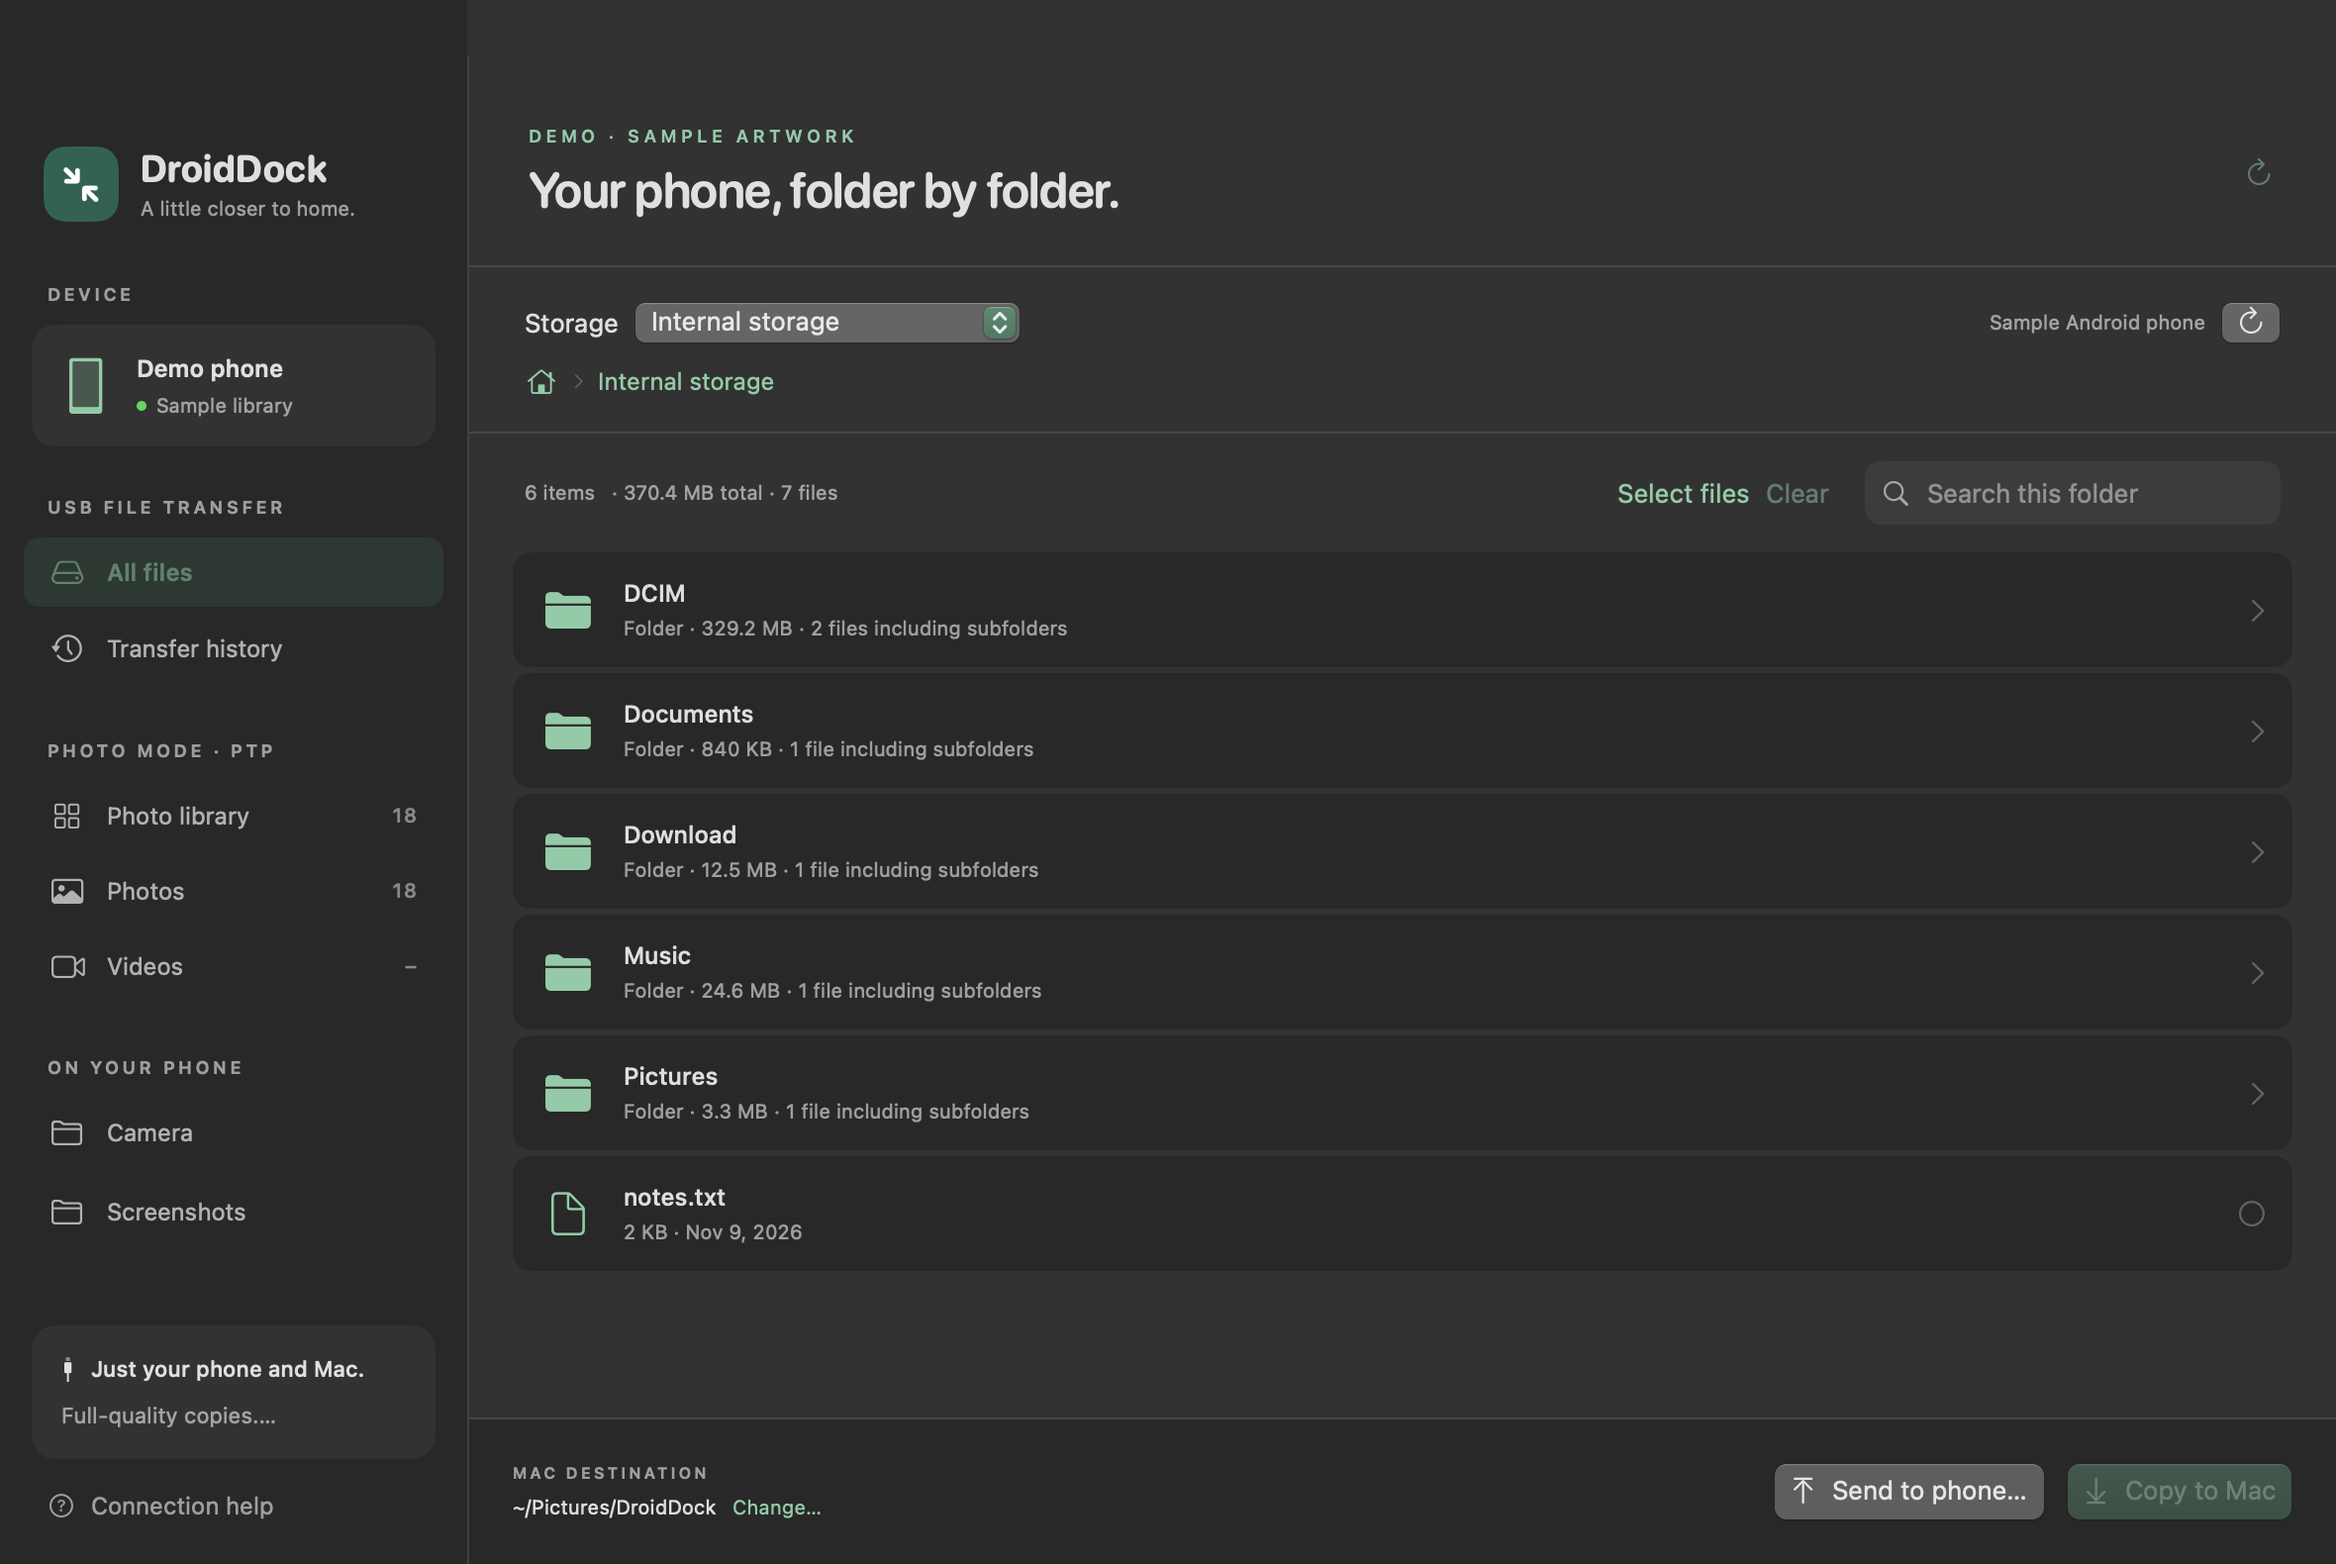
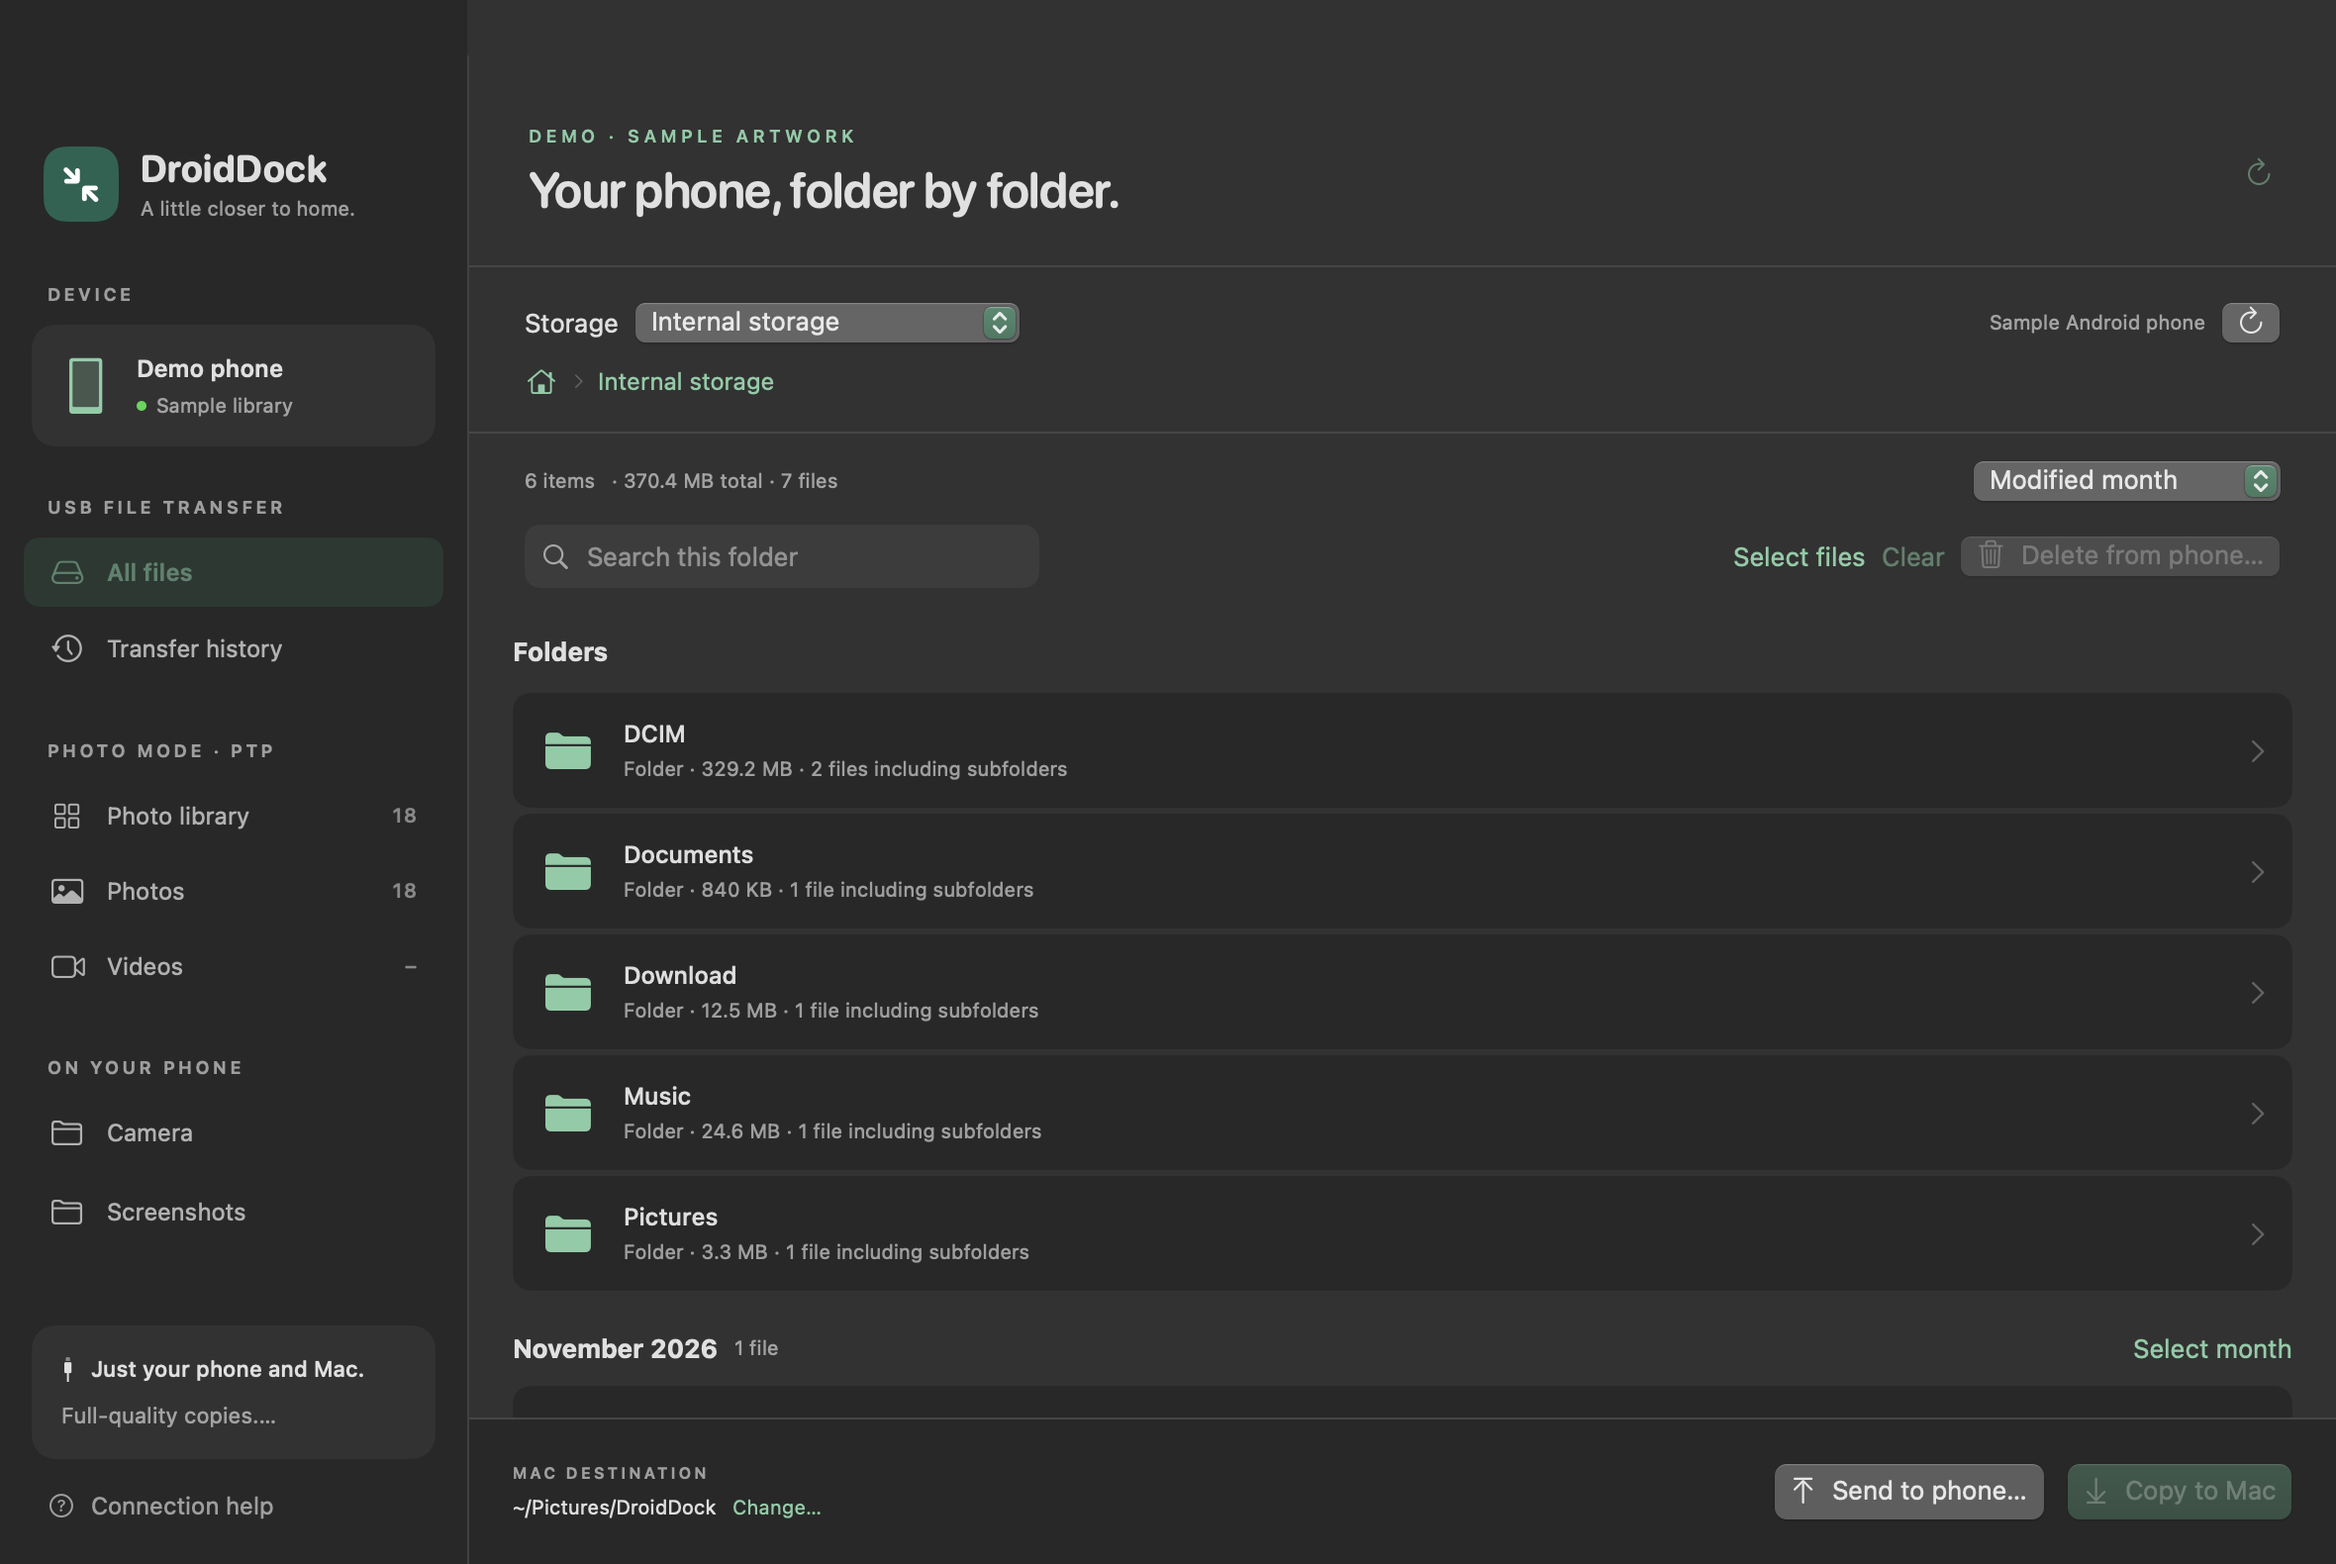
Refresh documentation for monthly groups and deletion

diff --git a/README.md b/README.md
@@ -3,8 +3,8 @@
 **Your Android files, a little closer to home.**
 
 A native USB file-transfer app for **macOS and Windows**. Browse your phone, see
-folder sizes, and copy photos, videos, music, documents, and downloads in either
-direction. Works with Android's standard **File transfer / MTP** mode, including
+folder sizes, group files by month, copy content in either direction, and delete
+selected files from your phone. Works with Android's standard **File transfer / MTP** mode, including
 phones running OxygenOS 14. No phone companion app, account, Wi-Fi, or USB debugging
 required.
 
@@ -75,7 +75,8 @@ and choose **Photo library** in DroidDock.
 | PTP thumbnail library / download history | Yes | Not included |
 | Runtime installation | Bundled USB libraries | Self-contained; no separate .NET install |
 
-**Early release:** automated tests cover file safety and folder-size calculation.
+**Early release:** automated tests cover file safety, folder-size calculation,
+monthly grouping, and the confirmed deletion queue.
 Mac USB browsing, recursive sizes, and interrupting scans have been checked with
 a OnePlus 9R running OxygenOS 14. The Windows build passes its tests and starts
 successfully on a Windows runner; Windows USB transfers still need validation
